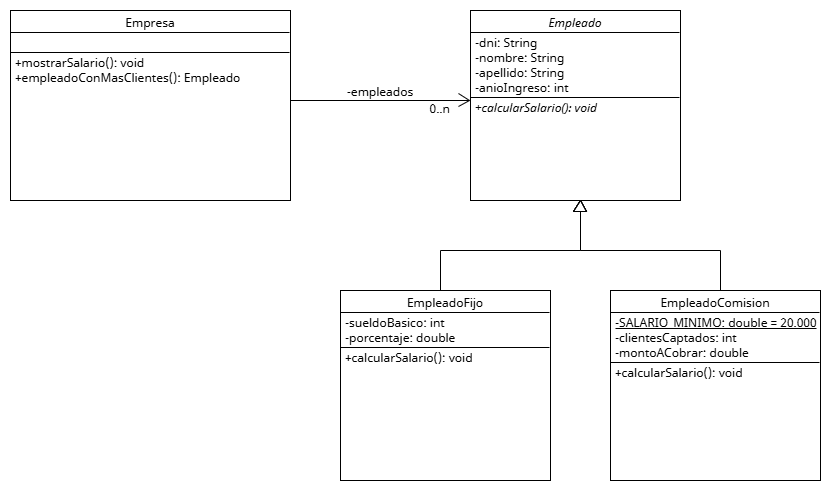
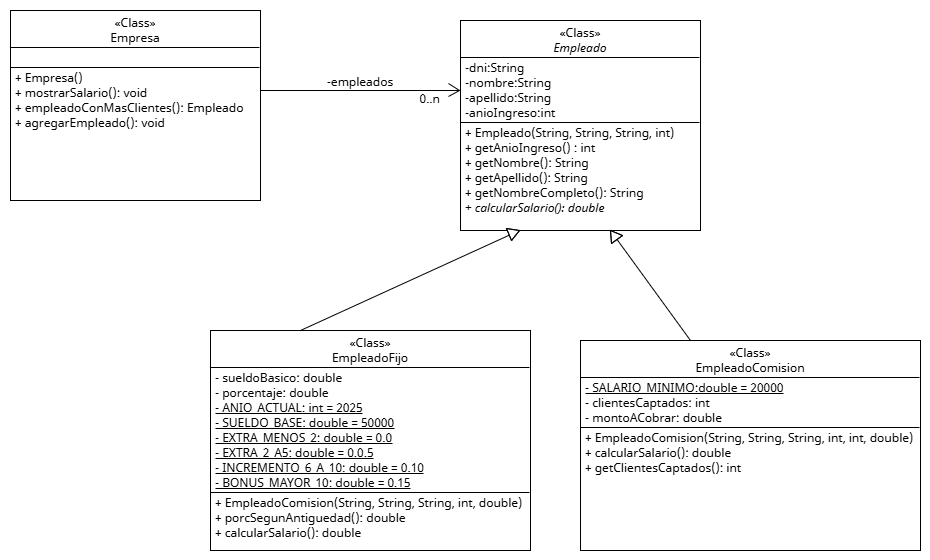
EmpleadoComision modificado el UML y clase

diff --git a/src/main/java/org/rami/EmpleadoComision.java b/src/main/java/org/rami/EmpleadoComision.java
@@ -1,6 +1,7 @@
 package org.rami;
 
 public class EmpleadoComision extends Empleado{
+    private static final double SALARIO_MINIMO = 20000;
     private int clientesCaptados;
     private double montoACobrar;
 
@@ -13,7 +14,7 @@ public class EmpleadoComision extends Empleado{
     @Override
     public double calcularSalario() {
         double salario = clientesCaptados * montoACobrar;
-        return salario < 20000 ? 20000 : salario;
+        return salario < SALARIO_MINIMO ? SALARIO_MINIMO : salario;
     }
 
     public int getClientesCaptados() {

diff --git a/src/main/java/org/rami/Main.java b/src/main/java/org/rami/Main.java
@@ -1,7 +1,6 @@
 package org.rami;
 
-//TIP To <b>Run</b> code, press <shortcut actionId="Run"/> or
-// click the <icon src="AllIcons.Actions.Execute"/> icon in the gutter.
+
 public class Main {
     public static void main(String[] args) {
             Empresa asap = new Empresa();
